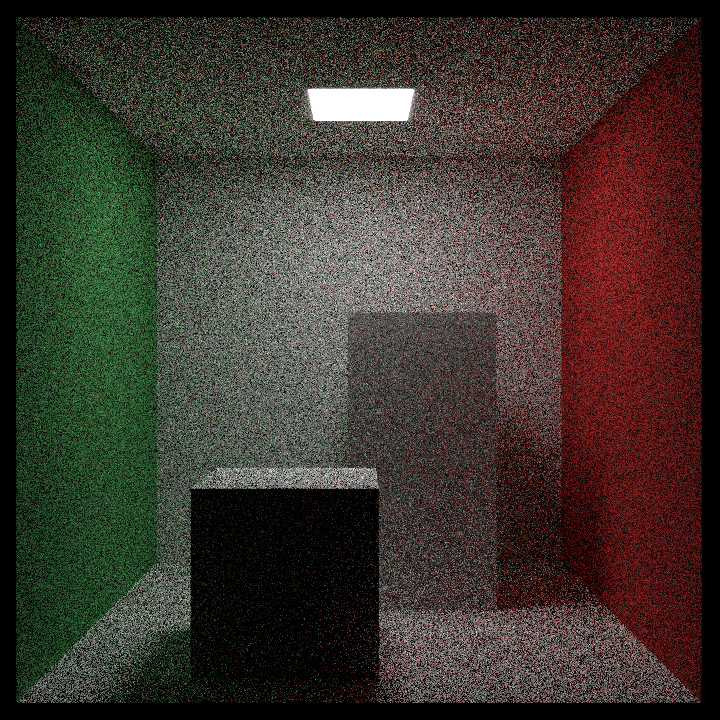
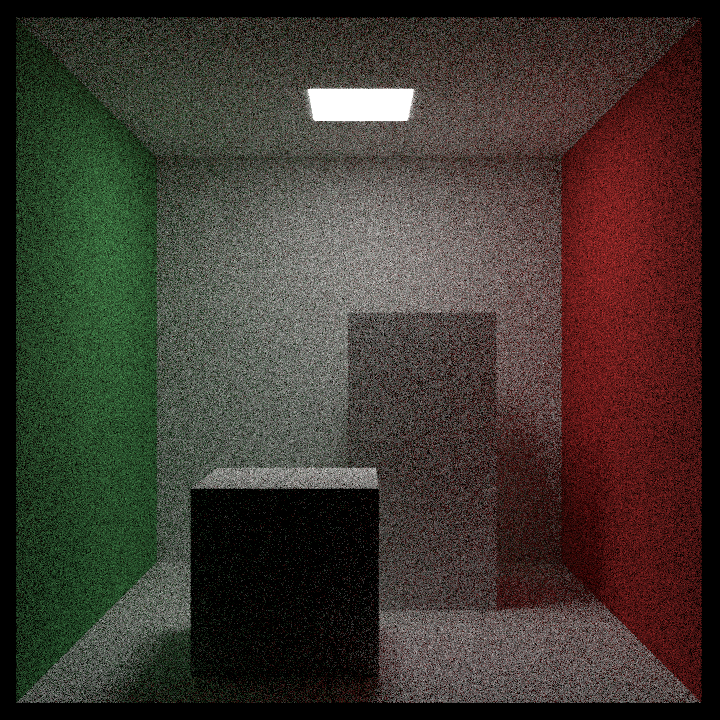
onb

diff --git a/src/material/lambertian.rs b/src/material/lambertian.rs
@@ -1,5 +1,4 @@
 use super::impl_prelude::*;
-use std::f64::consts::PI;
 
 pub struct Lambertian {
     pub albedo: Arc<dyn Texture>,
@@ -18,10 +17,11 @@ impl Material for Lambertian {
         }: &HitResult,
         rng: &RandomNumberGenerator,
     ) -> Option<Scatter> {
-        let direction = rng.in_hemishphere(normal);
+        let onb = Onb::new_from_w(normal);
+        let direction = onb.local(&rng.cosine_direction()).normalize();
         let ray = Ray::new(*point, direction, ray.time());
         let attenuation = self.albedo.color(point, u, v);
-        let pdf = 0.5 / PI;
+        let pdf = onb.w.dot(direction) / PI;
         Some(Scatter {
             ray,
             attenuation,

diff --git a/src/rng.rs b/src/rng.rs
@@ -1,5 +1,6 @@
 use glam::DVec3;
 use rand::{distributions::Uniform, prelude::Distribution, rngs::ThreadRng, thread_rng};
+use std::f64::consts::PI;
 
 use crate::Color;
 
@@ -73,5 +74,16 @@ impl RandomNumberGenerator {
             self.uniform_0_1.sample(&mut rng),
             self.uniform_0_1.sample(&mut rng),
         )
+    }
+
+    pub fn cosine_direction(&self) -> DVec3 {
+        let rng = &mut thread_rng();
+        let r1 = self.uniform_0_1.sample(rng);
+        let r2 = self.uniform_0_1.sample(rng);
+        let z = (1. - r2).sqrt();
+        let phi = 2. * PI * r1;
+        let x = phi.cos() * r2.sqrt();
+        let y = phi.sin() * r2.sqrt();
+        DVec3 { x, y, z }
     }
 }

diff --git a/src/onb.rs b/src/onb.rs
@@ -1,0 +1,23 @@
+use glam::DVec3;
+
+pub struct Onb {
+    pub u: DVec3,
+    pub v: DVec3,
+    pub w: DVec3,
+}
+
+impl Onb {
+    pub fn local(&self, vec: &DVec3) -> DVec3 {
+        vec.x * self.u + vec.y * self.v + vec.z * self.w
+    }
+
+    pub fn new_from_w(w: &DVec3) -> Self {
+        let a = match w.x.abs() > 0.9 {
+            true => DVec3::Y,
+            false => DVec3::X,
+        };
+        let v = w.cross(a).normalize();
+        let u = w.cross(v);
+        Self { u, v, w: *w }
+    }
+}

diff --git a/src/material/mod.rs b/src/material/mod.rs
@@ -2,11 +2,13 @@ mod impl_prelude {
     pub use super::{reflect, refract, Material, Scatter};
     pub use crate::{
         color::Color,
+        onb::Onb,
         ray::{HitResult, Ray},
         rng::RandomNumberGenerator,
         texture::*,
     };
     pub use glam::DVec3;
+    pub use std::f64::consts::PI;
     pub use std::sync::Arc;
 }
 use impl_prelude::*;

diff --git a/src/lib.rs b/src/lib.rs
@@ -1,5 +1,6 @@
 mod camera;
 mod color;
+mod onb;
 mod ray;
 mod render;
 mod rng;
